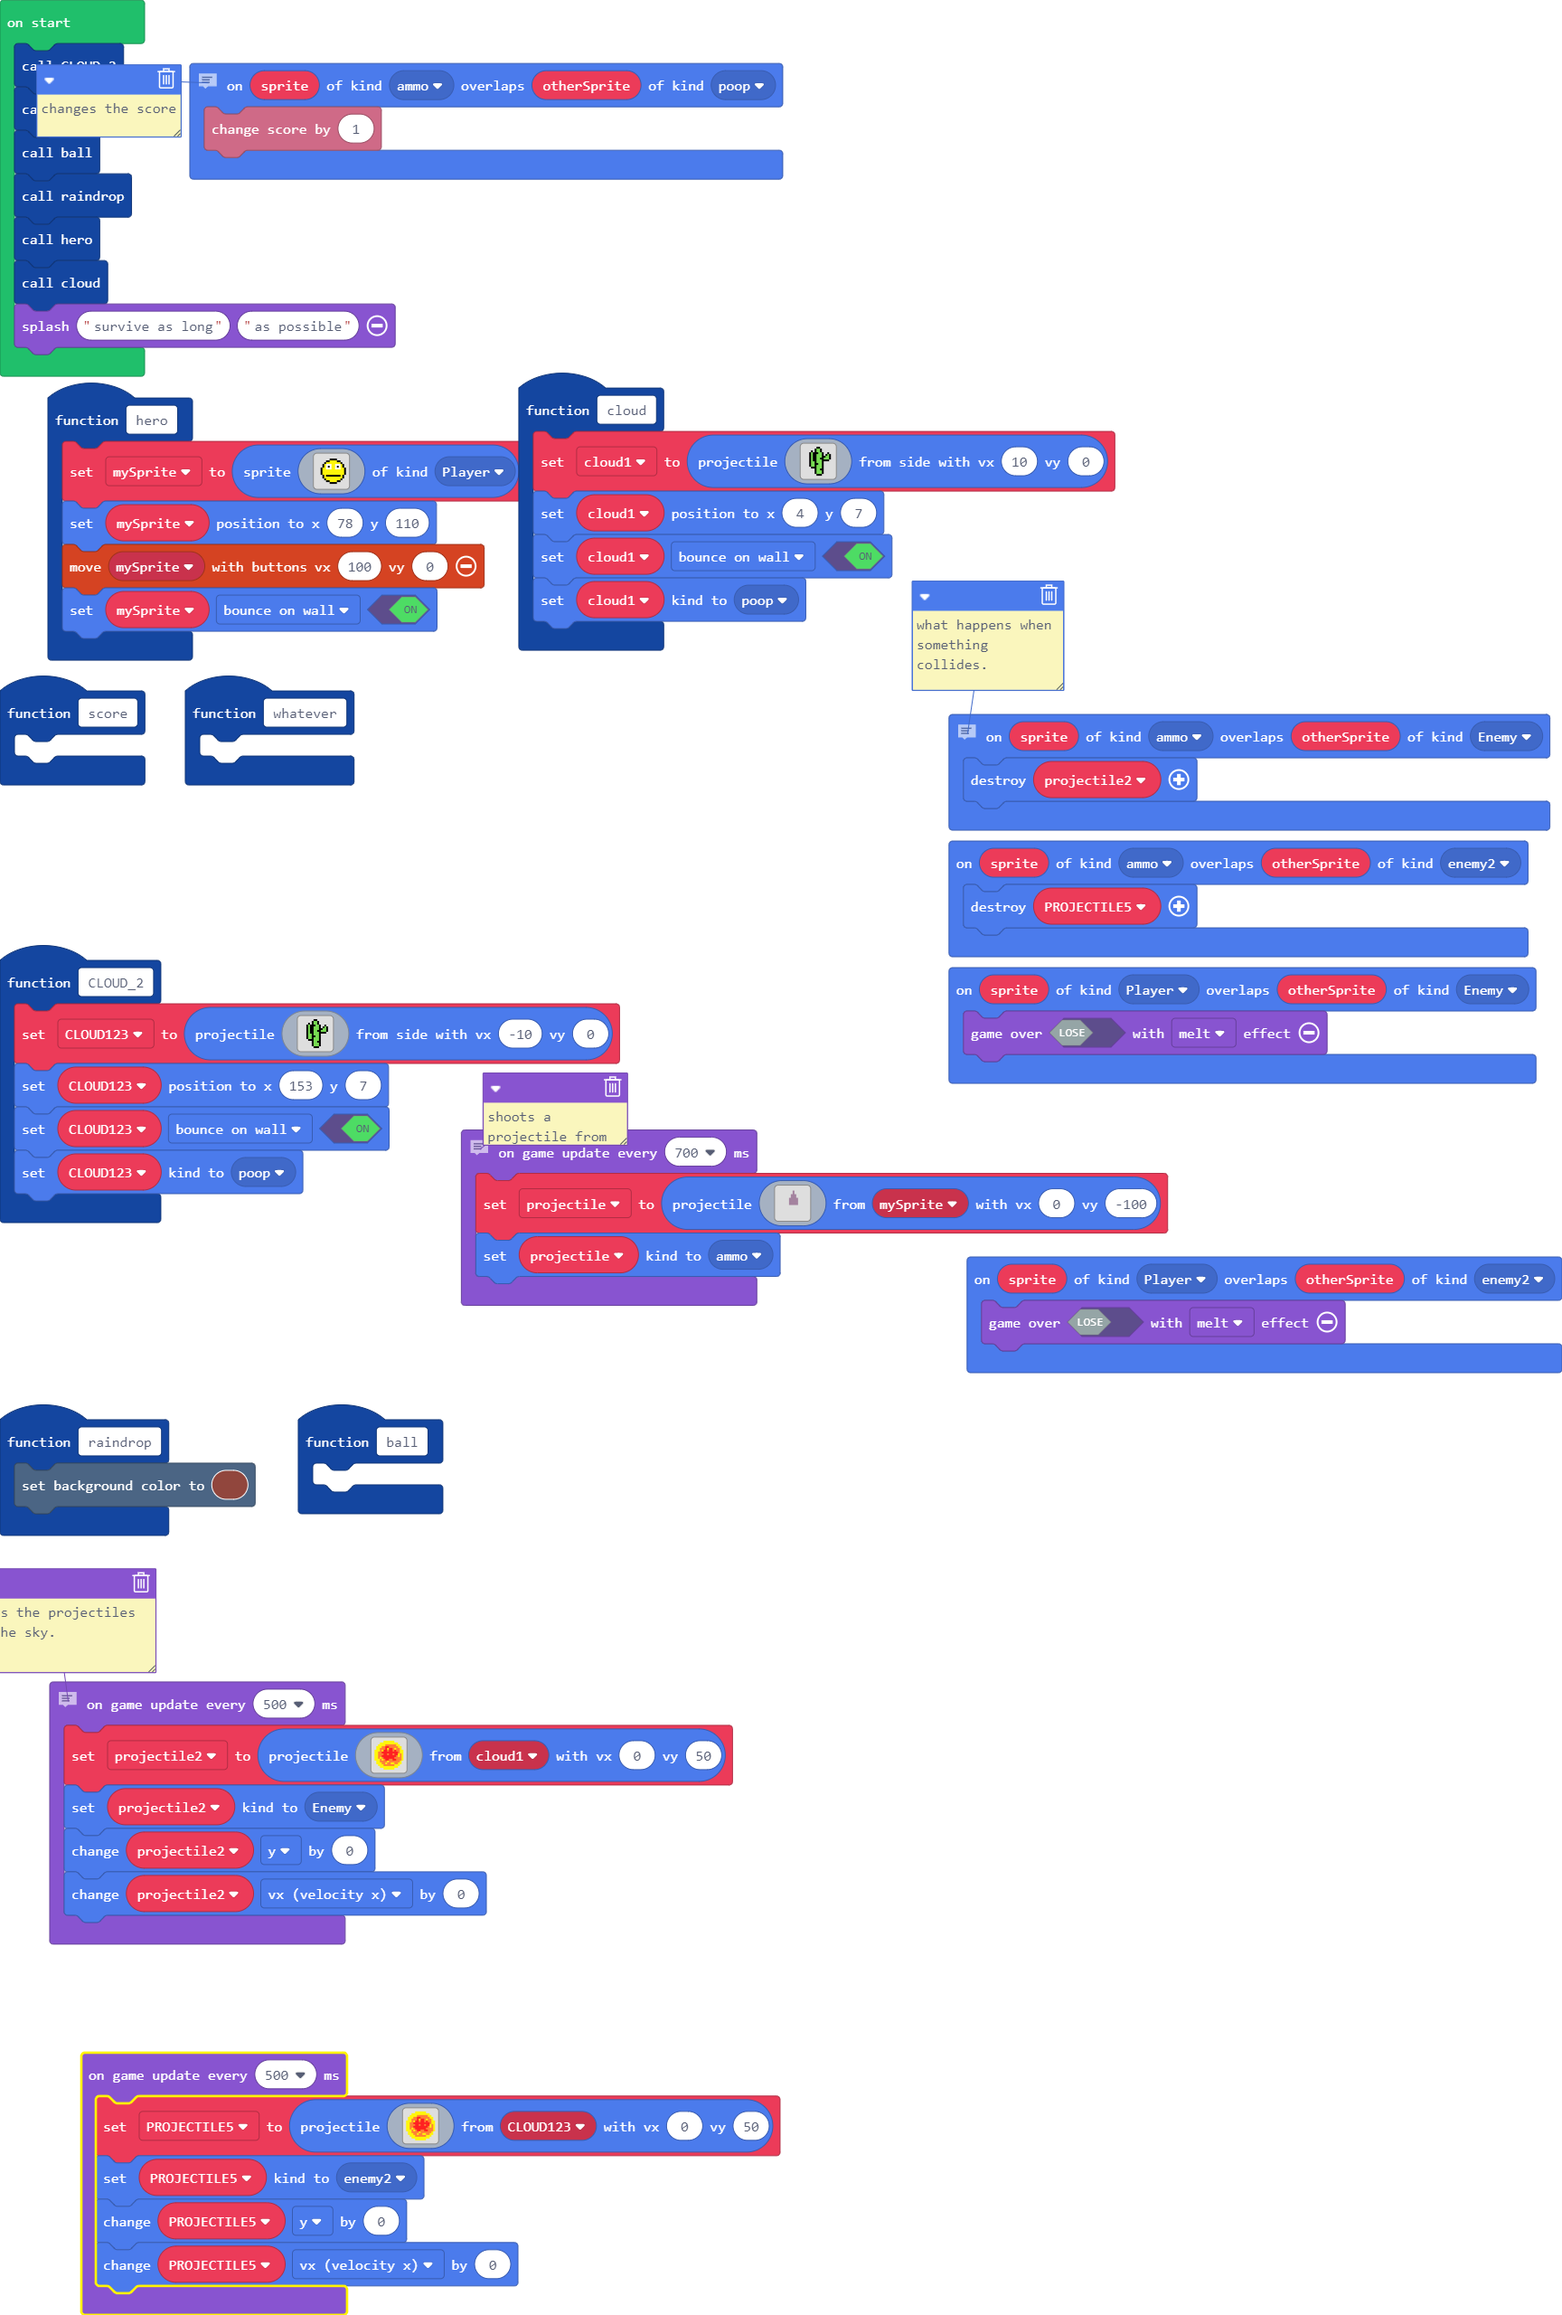
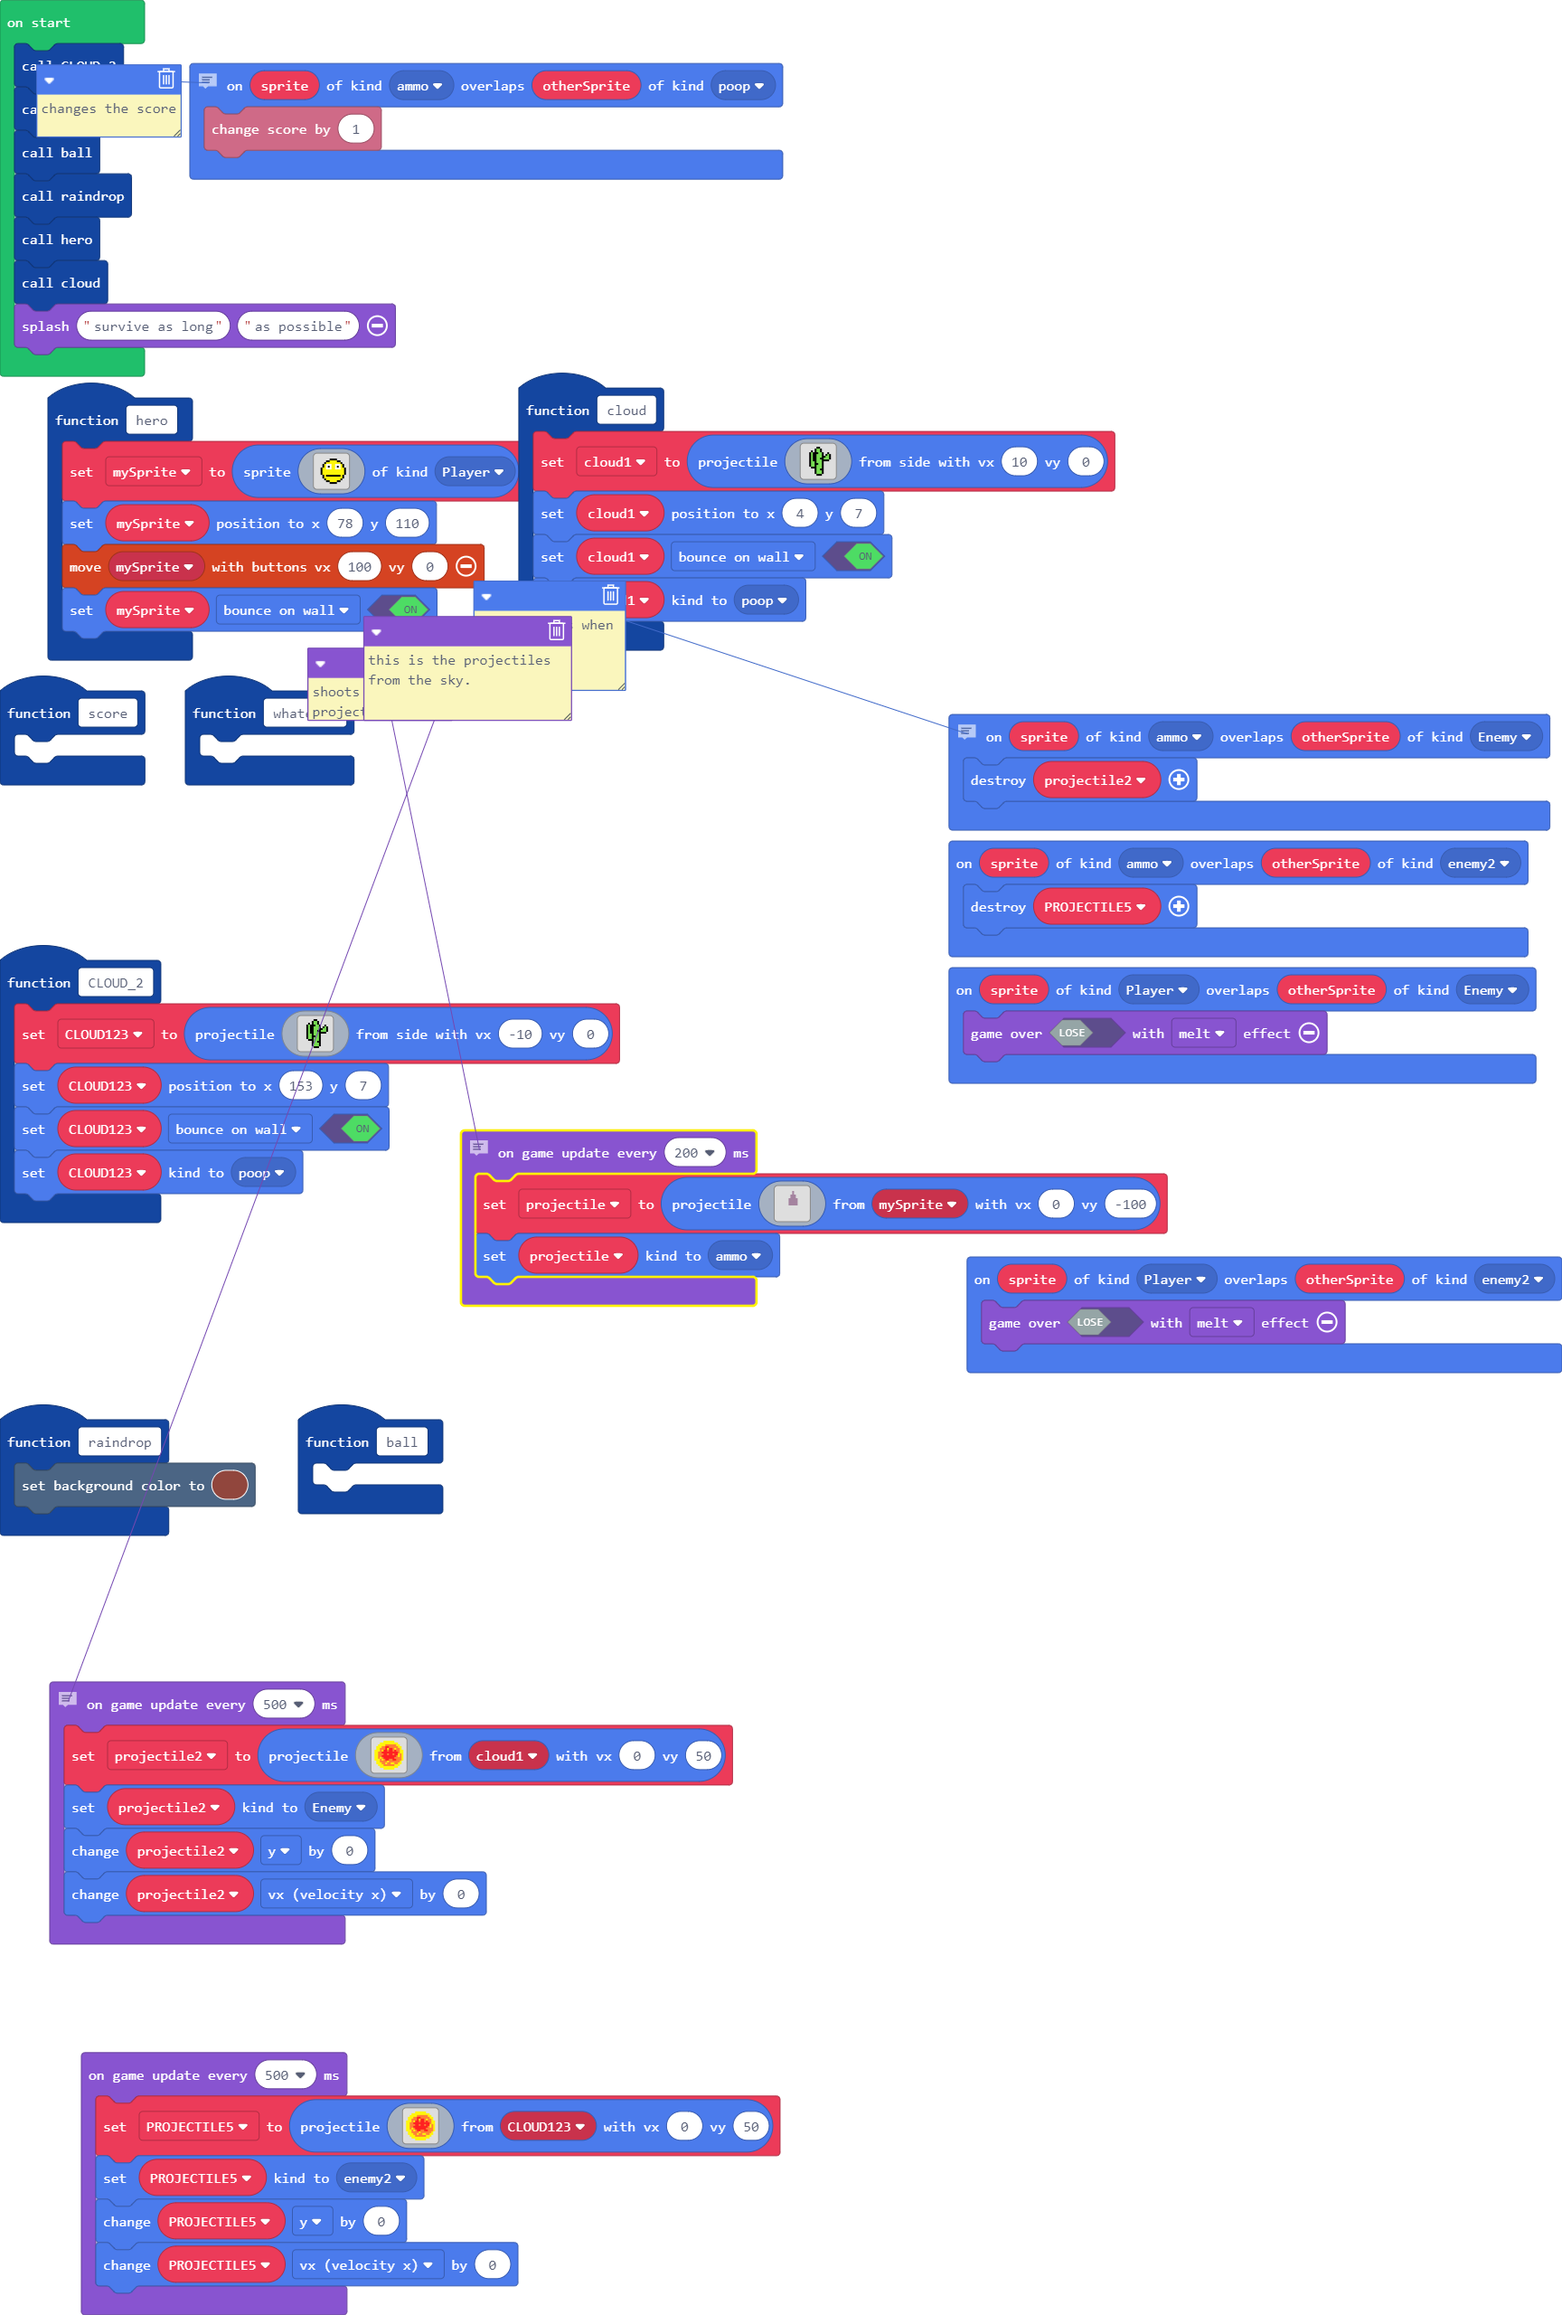
Update main.blocks, main.ts

diff --git a/main.ts b/main.ts
@@ -200,6 +200,28 @@ raindrop()
 hero()
 cloud()
 game.splash("survive as long", "as possible")
+// shoots a projectile from the sprite
+game.onUpdateInterval(200, function () {
+    projectile = sprites.createProjectileFromSprite(img`
+. . . . . . . . . . . . . . . . 
+. . . . . . . . b . . . . . . . 
+. . . . . . . . b . . . . . . . 
+. . . . . . . b b b . . . . . . 
+. . . . . . . b b b . . . . . . 
+. . . . . . b b b b b . . . . . 
+. . . . . . b b b b b . . . . . 
+. . . . . . b b b b b . . . . . 
+. . . . . . b b b b b . . . . . 
+. . . . . . . . . . . . . . . . 
+. . . . . . . . . . . . . . . . 
+. . . . . . . . . . . . . . . . 
+. . . . . . . . . . . . . . . . 
+. . . . . . . . . . . . . . . . 
+. . . . . . . . . . . . . . . . 
+. . . . . . . . . . . . . . . . 
+`, mySprite, 0, -100)
+    projectile.setKind(SpriteKind.ammo)
+})
 // this is the projectiles from the sky.
 //
 //
@@ -269,26 +291,4 @@ game.onUpdateInterval(500, function () {
     PROJECTILE5.setKind(SpriteKind.enemy2)
     PROJECTILE5.y += 0
     PROJECTILE5.vx += 0
-})
-// shoots a projectile from the sprite
-game.onUpdateInterval(700, function () {
-    projectile = sprites.createProjectileFromSprite(img`
-. . . . . . . . . . . . . . . . 
-. . . . . . . . b . . . . . . . 
-. . . . . . . . b . . . . . . . 
-. . . . . . . b b b . . . . . . 
-. . . . . . . b b b . . . . . . 
-. . . . . . b b b b b . . . . . 
-. . . . . . b b b b b . . . . . 
-. . . . . . b b b b b . . . . . 
-. . . . . . b b b b b . . . . . 
-. . . . . . . . . . . . . . . . 
-. . . . . . . . . . . . . . . . 
-. . . . . . . . . . . . . . . . 
-. . . . . . . . . . . . . . . . 
-. . . . . . . . . . . . . . . . 
-. . . . . . . . . . . . . . . . 
-. . . . . . . . . . . . . . . . 
-`, mySprite, 0, -100)
-    projectile.setKind(SpriteKind.ammo)
 })
